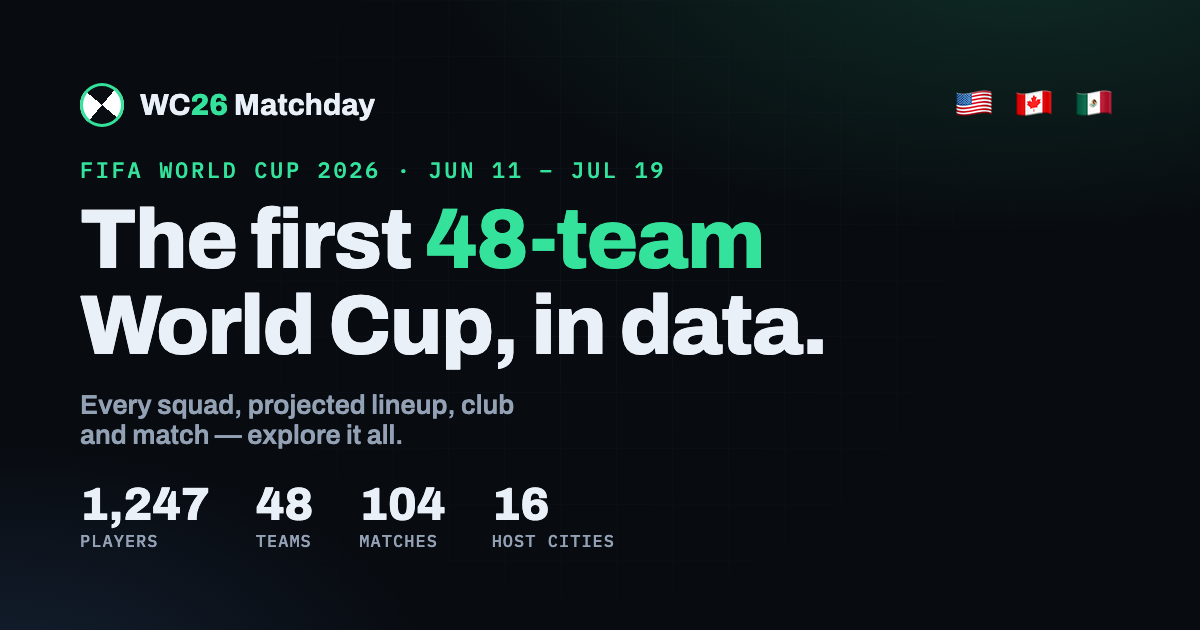
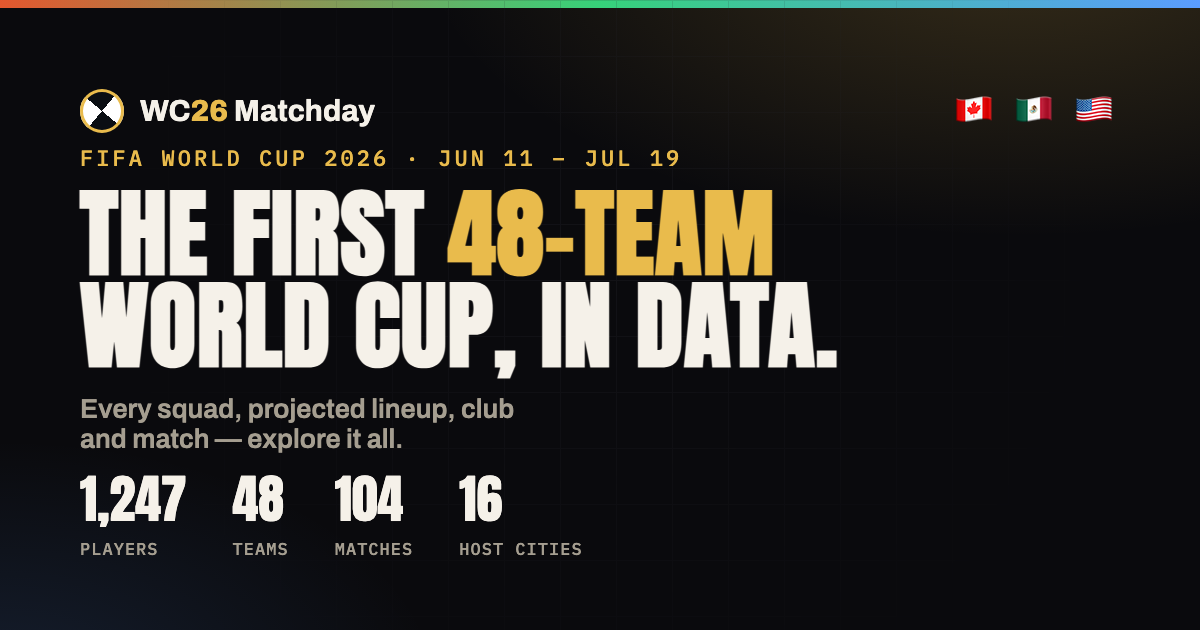
Redesign visual system: trophy-gold identity + host tri-colour (WC2026 brand)
Grounded in the official WC2026 brand (black/white/gold; host nations red/green/
blue) and 2026 dark-UI trends ("blue is invisible", warm graduated darks,
micro-glow accents, poster type). Driven entirely from design tokens so it
applies across all 1,916 pages.

- Palette: warm near-black surface ramp + trophy GOLD primary accent (was the
  generic dev-tool green); host tri-colour CAN red / MEX green / USA blue as a
  signature motif (topbar hairline, hero glow, favicon/OG strip)
- Warm off-white text; heavier dark-mode contrast
- Micro-glow on primary CTAs + active states; refreshed shadows
- Poster display font (Anton) for numerals (countdown, stat bar); clean Archivo
  headings retained
- Updated favicon + OG image to the gold/tri-colour identity
- Light theme retuned to warm gold-on-cream

diff --git a/src/styles/global.css b/src/styles/global.css
@@ -1,18 +1,26 @@
 :root{
-  --bg:#080b10; --bg1:#0c1119; --bg2:#10161f; --bg3:#151c28; --line:#1e2735; --line2:#2a3647;
-  --fg:#eaf0f7; --fg-dim:#93a1b5; --fg-mute:#5f6e82;
-  --accent:#34e29b; --accent2:#5aa2ff; --warn:#ffb454; --pink:#ff6b9d; --violet:#b48cff;
-  --radius:14px; --sh:0 8px 30px rgba(0,0,0,.4);
-  --fdisp:'Archivo',system-ui,sans-serif; --fmono:'IBM Plex Mono',ui-monospace,monospace;
+  /* warm graduated darks (never pure black) */
+  --bg:#0a0a0d; --bg1:#101016; --bg2:#17171f; --bg3:#1f1f2a; --line:#27272f; --line2:#37373f;
+  --fg:#f5f1e9; --fg-dim:#a59e90; --fg-mute:#6d665b;
+  /* trophy gold = primary accent (WC2026 brand); host tri-colour CAN red / MEX green / USA blue */
+  --gold:#e9bb4c; --gold2:#f6d77e;
+  --accent:#e9bb4c; --accent2:#5b9cff; --on-accent:#1c1503;
+  --can:#e4572e; --mex:#36d27a; --usa:#5b9cff;
+  --warn:#ffb454; --pink:#ff6b9d; --violet:#b48cff;
+  --radius:14px; --sh:0 10px 34px rgba(0,0,0,.5);
+  --glow:0 0 28px -8px rgba(233,187,76,.55);
+  --fdisp:'Archivo',system-ui,sans-serif; --fdisp2:'Anton','Archivo',system-ui,sans-serif;
+  --fmono:'IBM Plex Mono',ui-monospace,monospace;
   --fbody:-apple-system,BlinkMacSystemFont,'Segoe UI',Roboto,Helvetica,Arial,sans-serif;
 }
 html[data-theme="light"]{
-  --bg:#f4f6fa; --bg1:#ffffff; --bg2:#f0f3f8; --bg3:#e9eef5; --line:#dde4ee; --line2:#cdd7e6;
-  --fg:#16202e; --fg-dim:#52617a; --fg-mute:#8493a8; --sh:0 8px 26px rgba(20,40,80,.10);
+  --bg:#f6f4ee; --bg1:#ffffff; --bg2:#f1eee5; --bg3:#e8e4d8; --line:#e2ddd0; --line2:#cfc9b8;
+  --fg:#1a1813; --fg-dim:#5c564a; --fg-mute:#8a8373; --sh:0 8px 26px rgba(60,50,20,.10);
+  --gold:#b8860b; --accent:#b8860b; --on-accent:#fff8e7; --glow:0 0 24px -10px rgba(184,134,11,.45);
 }
 *{box-sizing:border-box}
 body{margin:0;font-family:var(--fbody);color:var(--fg);background:
-  radial-gradient(1200px 560px at 86% -10%,rgba(52,226,155,.06),transparent 60%),
+  radial-gradient(1200px 560px at 86% -10%,rgba(233,187,76,.07),transparent 60%),
   radial-gradient(900px 500px at 0% 0%,rgba(90,162,255,.06),transparent 55%),
   linear-gradient(var(--bg),var(--bg));
   background-attachment:fixed;-webkit-font-smoothing:antialiased;line-height:1.55;font-size:14px}
@@ -26,7 +34,7 @@ h1{font-family:var(--fdisp);font-weight:800;letter-spacing:-.02em;margin:.1em 0;
 h2.sec{font-family:var(--fdisp);font-weight:700;font-size:15px;text-transform:uppercase;letter-spacing:.14em;color:var(--fg-dim);margin:26px 2px 12px}
 h3{font-family:var(--fdisp);font-weight:600;font-size:14.5px;margin:0 0 13px;display:flex;align-items:center;gap:9px;flex-wrap:wrap}
 .tag{font-family:var(--fbody);font-size:11px;color:var(--fg-mute);font-weight:400}
-.skip{position:fixed;left:-999px;top:8px;z-index:200;background:var(--accent);color:#04241a;padding:8px 14px;border-radius:8px}
+.skip{position:fixed;left:-999px;top:8px;z-index:200;background:var(--accent);color:var(--on-accent);padding:8px 14px;border-radius:8px}
 .skip:focus{left:8px}
 /* topbar */
 .topbar{position:sticky;top:0;z-index:50;display:flex;align-items:center;gap:18px;padding:11px 22px;
@@ -46,7 +54,7 @@ main{position:relative;z-index:1;max-width:1320px;margin:0 auto;padding:18px 22p
 .btn{display:inline-flex;align-items:center;gap:7px;background:var(--bg2);border:1px solid var(--line2);color:var(--fg);
   padding:9px 14px;border-radius:10px;font-size:13px;cursor:pointer;font-family:var(--fbody);transition:.15s cubic-bezier(.22,.61,.36,1)}
 .btn:hover{border-color:var(--accent2);transform:translateY(-1px)}
-.btn.primary{background:var(--accent);color:#04241a;border-color:var(--accent);font-weight:700}
+.btn.primary{background:var(--accent);color:var(--on-accent);border-color:var(--accent);font-weight:700}
 .btn.ghost{background:transparent}
 .btn.back{margin-bottom:14px}
 .kbtn{font-family:var(--fmono)}
@@ -95,7 +103,7 @@ input{min-width:210px}
 .chips{display:flex;gap:6px;flex-wrap:wrap}
 .chip{background:var(--bg2);border:1px solid var(--line2);color:var(--fg-dim);padding:6px 12px;border-radius:999px;cursor:pointer;font-size:12px;transition:.12s}
 .chip:hover{color:var(--fg)}
-.chip.on{background:var(--accent);color:#04241a;border-color:var(--accent);font-weight:700}
+.chip.on{background:var(--accent);color:var(--on-accent);border-color:var(--accent);font-weight:700}
 .count{color:var(--fg-mute);font-size:12px;margin-left:auto;font-family:var(--fmono)}
 .pill{display:inline-block;padding:2px 7px;border-radius:6px;font-size:10.5px;font-weight:700;letter-spacing:.3px}
 .pill.GK{background:#3a2e10;color:#ffd479}.pill.DF{background:#10233a;color:#7fb6ff}
@@ -107,7 +115,7 @@ input{min-width:210px}
 .thflag{font-size:46px;line-height:1}
 .subtabs{display:flex;gap:7px;margin:14px 0}
 .subtab{background:var(--bg2);border:1px solid var(--line2);color:var(--fg-dim);padding:7px 17px;border-radius:999px;cursor:pointer;font-size:13px}
-.subtab.on{background:var(--accent);color:#04241a;border-color:var(--accent);font-weight:700}
+.subtab.on{background:var(--accent);color:var(--on-accent);border-color:var(--accent);font-weight:700}
 .kv{display:grid;grid-template-columns:150px 1fr;gap:7px 12px;font-size:13px}
 .kv .k{color:var(--fg-dim)}
 .sublabel{margin:16px 0 8px;font-size:11px;text-transform:uppercase;letter-spacing:.12em;color:var(--accent)}
@@ -237,7 +245,7 @@ img{max-width:100%}
 
 .lhero{position:relative;display:grid;grid-template-columns:1.18fr .82fr;gap:34px;align-items:center;padding:48px 4px 26px}
 .lhero .glow{position:absolute;inset:-60px -120px auto auto;width:560px;height:420px;pointer-events:none;z-index:-1;
-  background:radial-gradient(circle at 72% 30%,rgba(52,226,155,.16),transparent 58%),radial-gradient(circle at 30% 75%,rgba(90,162,255,.13),transparent 60%),radial-gradient(circle at 90% 90%,rgba(255,107,157,.08),transparent 55%)}
+  background:radial-gradient(circle at 72% 30%,rgba(233,187,76,.18),transparent 58%),radial-gradient(circle at 30% 75%,rgba(90,162,255,.13),transparent 60%),radial-gradient(circle at 90% 90%,rgba(228,87,46,.12),transparent 55%)}
 .l-eyebrow{font-family:var(--fmono);font-size:12.5px;letter-spacing:.16em;color:var(--accent);text-transform:uppercase}
 .lhero h1{font-size:clamp(2.2rem,6vw,4.1rem);max-width:13ch;margin:12px 0;line-height:1.02}
 .lhero h1 .accent{color:var(--accent)}
@@ -315,7 +323,7 @@ img{max-width:100%}
 .phead{position:relative;display:flex;align-items:flex-end;justify-content:space-between;gap:20px;flex-wrap:wrap;
   padding:30px 4px 20px;margin-bottom:4px;border-bottom:1px solid var(--line)}
 .phead::before{content:"";position:absolute;inset:-20px -40px auto auto;width:380px;height:200px;z-index:-1;pointer-events:none;
-  background:radial-gradient(circle at 75% 30%,rgba(52,226,155,.10),transparent 60%),radial-gradient(circle at 40% 80%,rgba(90,162,255,.08),transparent 60%)}
+  background:radial-gradient(circle at 75% 30%,rgba(233,187,76,.12),transparent 60%),radial-gradient(circle at 40% 80%,rgba(90,162,255,.08),transparent 60%)}
 .phead .pe{font-family:var(--fmono);font-size:11.5px;letter-spacing:.16em;text-transform:uppercase;color:var(--accent)}
 .phead h1{font-size:clamp(1.8rem,4vw,2.7rem);margin:6px 0 0}
 .phead .psub{color:var(--fg-dim);font-size:14px;margin-top:6px;max-width:62ch}
@@ -334,3 +342,19 @@ img{max-width:100%}
 
 /* page entrance */
 main > .phead, main > .reveal{animation:fadeUp .5s cubic-bezier(.22,.61,.36,1) both}
+
+/* ===== Identity refresh: gold + host tri-colour, poster display ===== */
+/* host tri-colour hairline (Canada red · Mexico green · USA blue) */
+.topbar{border-top:3px solid transparent;border-image:linear-gradient(90deg,var(--can),var(--mex),var(--usa)) 1}
+/* poster / vintage display for the biggest moments */
+.cdunit b,.statbar .s b,.cdlive,.cdmatch .vs{font-family:var(--fdisp2);font-weight:400;letter-spacing:.02em}
+.brand b{color:var(--gold)}
+/* micro-glow on primary actions + active states (2026 neon-accent, restrained) */
+.btn.primary{box-shadow:var(--glow)}
+.btn.primary:hover{box-shadow:0 0 34px -6px rgba(233,187,76,.7)}
+#nav a.on{box-shadow:inset 0 -2px 0 var(--gold)}
+.chip.on,.subtab.on{box-shadow:var(--glow)}
+.token .sh,.cdcard,.bchamp{box-shadow:var(--sh)}
+/* gold accent text where green used to read */
+.eyebrow,.l-eyebrow,.pe,.gh,.sublabel,.ms,.cdcard .lab{color:var(--gold)}
+.bchamp{border-color:var(--gold);box-shadow:0 0 30px -10px var(--gold)}
